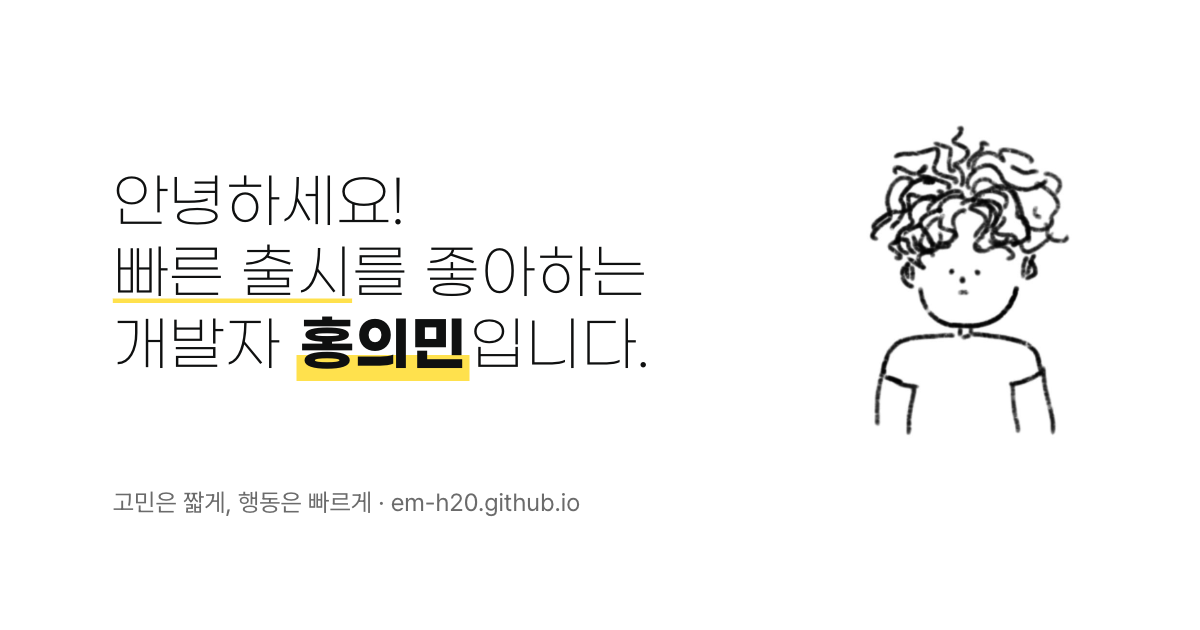
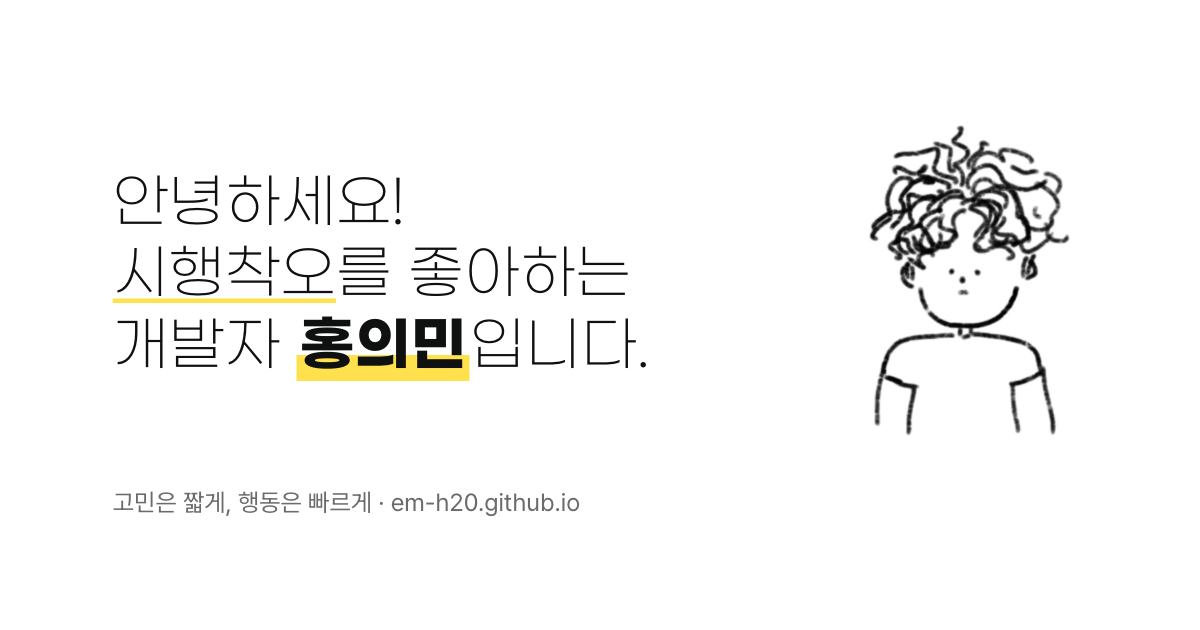
feat: retheme hero words around process and experience
Claude-Session: https://claude.ai/code/session_01F2XuCryd8mU6U6vz2k6BML

Changed region(s): [[0.0925, 0.3921, 0.5242, 0.4825]]

diff --git a/src/content/profile.ts b/src/content/profile.ts
@@ -69,7 +69,7 @@ export const hero = {
   name: "홍의민",
   alias: "Elipair",
   motto: "고민은 짧게, 행동은 빠르게",
-  words: ["빠른 출시", "술래잡기", "딸깍 배포", "AI 동료", "실사용자"],
+  words: ["시행착오", "첫 시도", "경험치", "회고", "기록하기"],
   intro: "아이디어를 실제로 사용할 수 있는 모바일·웹 서비스로 만듭니다.",
   topAward: "Google I/O Extended 1st Place",
   contactLine: "채용·협업 제안은 메일로 연락해 주세요.",
